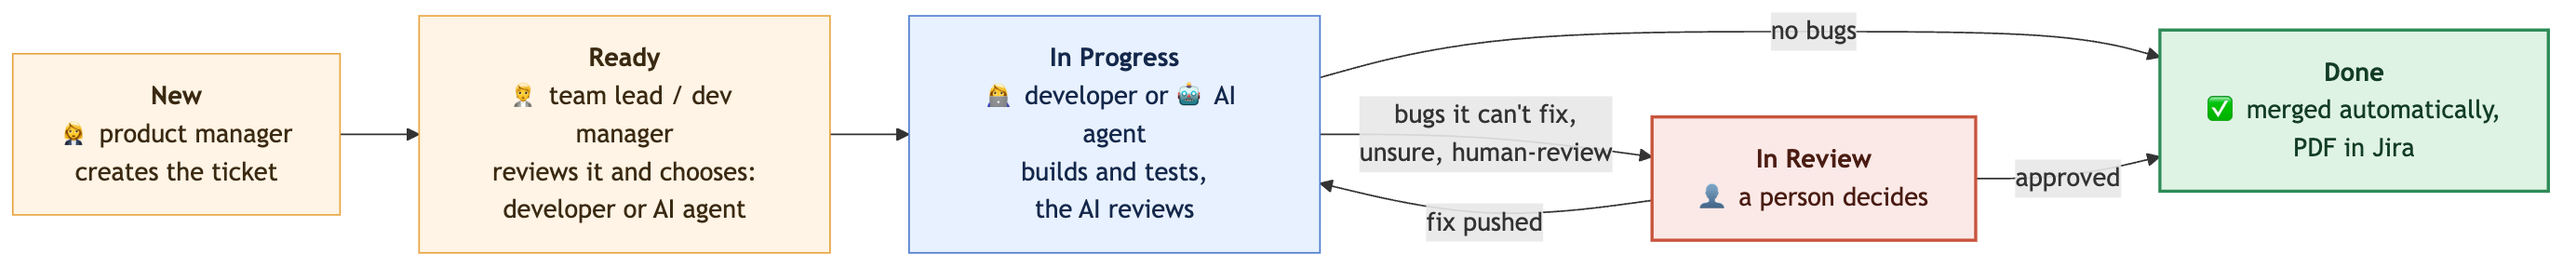
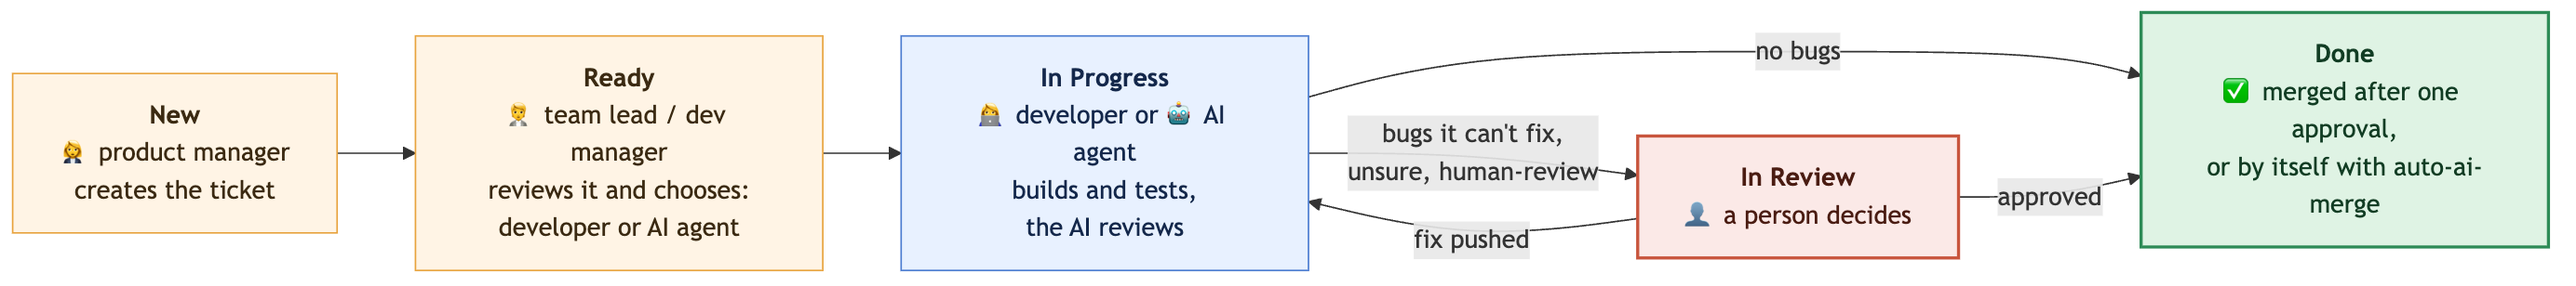
Merge: a person approves the PR by default; Jira label auto-ai-merge lets the pipeline merge by itself
main now requires one approval (the bot's own auto-ai-merge merges bypass it). Docs and diagrams updated.

diff --git a/README.md b/README.md
@@ -2,7 +2,7 @@
 
 A product manager creates a Jira ticket, and the team lead or dev manager reviews it and adds the details. Once the ticket is Ready, they choose who builds it: a developer [ or ] the AI agent ( ⚡ Run Agent 1 in Jira ). Playwright and Applitools Eyes test the change on the devices listed in the ticket ( or the defaults in `playwright.config.ts` ), and the AI reviews every visual difference against the ticket and the design system using the Applitools Eyes MCP Server.
 
-If no bugs are found, the change is merged automatically and the ticket moves to Done, with a PDF report attached. If the AI caused a bug, it fixes it and tests again. If there are bugs it cannot fix, or the ticket has the `human-review` label, the ticket moves to In Review and a person decides.
+If no bugs are found, a person approves the pull request with one click and it is merged, or, with the label `auto-ai-merge`, it is merged automatically. The ticket then moves to Done, with a PDF report attached. If the AI caused a bug, it fixes it and tests again. If there are bugs it cannot fix, or the ticket has the `human-review` label, the ticket moves to In Review and a person decides.
 
 The goal: QA and developers no longer compare screenshots by hand. People only step in when a decision is really needed.
 
@@ -15,7 +15,7 @@ The goal: QA and developers no longer compare screenshots by hand. People only s
 1. Create the ticket ( Jira status: New ): the product manager creates the ticket in Jira with what should change and what must not change.
 
    <img src="docs/images/jira-create-ticket.gif" width="560" alt="Creating a ticket from the New column, adding the description and the text label">
-2. Review the ticket ( Jira status: Ready ): the team lead or dev manager reviews the New ticket, adds more details and moves it to Ready. Ready means the ticket is ready to be picked up. In Ready, they choose who handles it: assign a developer [ or ] click ⚡ Run Agent 1 for the AI agent. Optional labels: `feature`, `bug`, `hotfix`, `text`, `human-review` ( no label = feature ). To add a label: open the ticket → Details panel on the right → Labels → type the label → Enter.
+2. Review the ticket ( Jira status: Ready ): the team lead or dev manager reviews the New ticket, adds more details and moves it to Ready. Ready means the ticket is ready to be picked up. In Ready, they choose who handles it: assign a developer [ or ] click ⚡ Run Agent 1 for the AI agent. Optional labels: `feature`, `bug`, `hotfix`, `text`, `human-review`, `auto-ai-merge` ( no label = feature ). To add a label: open the ticket → Details panel on the right → Labels → type the label → Enter.
 
    Moving the ticket from New to Ready: open the ticket → click the status ( New ) → Ready.
 
@@ -53,7 +53,9 @@ The goal: QA and developers no longer compare screenshots by hand. People only s
 7. Auto fix ( Jira status: In Progress ): if the AI's change causes an issue, the AI fixes it and tests again ( up to 2 rounds ). For every bug it fixed, it creates a Jira sub-task in Done status with the details: what the issue was, why it was a bug, what it fixed and how. If it cannot fix a bug, it creates an open sub-task for a person.
 8. Report ( Jira status: In Progress ): after each execution, a PDF summary report is attached to the Jira ticket and linked on the pull request. It shows the results at a glance ( test cases run, passed and failed, visual checkpoints with and without differences, differences accepted or rejected by the AI, bugs found, fixed and left ), the actions the AI took, and the before / after / difference images for every change.
 9. Decision ( Jira status: Done or In Review ):
-   - No bugs found ( Jira status: Done ): the change is merged automatically and the baselines in Eyes are saved.
+   - No bugs found: the baselines in Eyes are saved, and:
+     - by default, a person approves the pull request ( one click ). GitHub then merges it, and the ticket moves to Done;
+     - with the label `auto-ai-merge`, the pipeline merges it by itself, and the ticket moves to Done.
    - Bugs it cannot fix, unclear changes, or the `human-review` label ( Jira status: In Review ): the ticket gets the label `needs-human` and is assigned to the person who created it. A person reads the PDF and fixes or approves. When the developer pushes a fix, the AI reviews it again.
 
    Note: In Review means the work is waiting for a person's decision. It is not used for reviewing the ticket itself ( that happens between New and Ready ).
@@ -113,7 +115,7 @@ The AI builds and reviews the change based on what the ticket says, so a clear t
 | Test on below devices | Optional | e.g. "Galaxy S25 Ultra", "Chrome desktop 1200×800" | The devices Applitools Eyes tests this ticket on. Without it, the defaults in `playwright.config.ts` are used |
 | Design reference | Optional | A design system rule or a Figma link | Checked together with `guidelines/design-system.md` |
 | Steps to reproduce, Actual, Expected | Required for a bug or hotfix | How to see the bug, what you see now, what you should see | The AI first reproduces the bug, then fixes it and adds a regression test |
-| Labels | Optional | `feature`, `bug`, `hotfix`, `text` ( a text-only change: the AI expects only text to change and checks the new text fits ), `human-review` ( extra types: `refactor` = no visual change expected, `a11y` = accessibility ) | Tells the AI the type of work ( no label = feature ). `human-review` means a person approves before the merge |
+| Labels | Optional | `feature`, `bug`, `hotfix`, `text` ( a text-only change: the AI expects only text to change and checks the new text fits ), `human-review`, `auto-ai-merge` ( merge without waiting for a person's approval ) ( extra types: `refactor` = no visual change expected, `a11y` = accessibility ) | Tells the AI the type of work ( no label = feature ). `human-review` means a person approves before the merge |
 | Work type | Optional | Task ( default, treated as a feature ) or Bug | A Bug work type is treated like the `bug` label |
 
 *Template ( copy into the Jira description )*
@@ -267,7 +269,7 @@ flowchart TD
     E --> F
     F --> G
     G --> H
-    H -->|"no bugs: merged automatically"| K
+    H -->|"no bugs: approved, or auto-ai-merge"| K
     H -->|"a bug the AI caused"| I
     I --> F
     H -->|"bugs it can't fix · unsure · human-review"| J

diff --git a/docs/INSTALLATION.md b/docs/INSTALLATION.md
@@ -9,7 +9,7 @@ This guide explains how to set up the sample project's flow in your own project.
 - Tests: Playwright and Applitools Eyes run the test cases on the defined devices ( set in `playwright.config.ts` ).
 - AI review: the AI checks every visual difference against the ticket and the design system, using the Eyes MCP Server ( deterministic agentic workflow ).
 - Report: a PDF report is attached to the Jira ticket.
-- Merge: if no bugs are found, it is merged automatically. If bugs are found, a person decides.
+- Merge: if no bugs are found, a person approves the pull request ( or, with the label `auto-ai-merge`, it is merged automatically ). If bugs are found, a person decides.
 
 Time needed: about one hour. Requirement: admin rights on the GitHub repository and the Jira project.
 
@@ -258,7 +258,7 @@ Go to your repository → **Settings → Secrets and variables → Actions**.
 | `APP_START_COMMAND` | How to start your app (Step 2) |
 | `APP_URL` | Where your app runs in CI (Step 2) |
 | `AGENT_ALLOWED_PATHS` | Folders Agent 1 may change (Step 2) |
-| `MERGE_POLICY` | `auto` (merge when the AI review passes) or `code-approval` (also needs one person's approval) |
+| `MERGE_POLICY` | `code-approval` ( default: one person approves the PR ) or `auto` ( merge when the AI review passes ). The Jira label `auto-ai-merge` always merges automatically |
 
 ![Repository variables](installation/images/p10-repo-variables.png)
 
@@ -335,7 +335,7 @@ A ticket can be implemented in two ways: (1) the AI agent builds it, [ or ] (2) 
 ### (1) The AI agent builds it
 
 **1. The PM or team lead creates the ticket** with two lists: *what should change* and *what must not change*.
-Optional labels: `bug`, `hotfix`, `human-review`.
+Optional labels: `bug`, `hotfix`, `text`, `human-review`, `auto-ai-merge`.
 
 **2. In Ready, the team lead or dev manager ( or anyone ) clicks the ⚡ ( Automation ) button → Agent 1** on the ticket. It moves to **In Progress**.
 
@@ -388,7 +388,8 @@ images for every change:
 | What | How |
 |---|---|
 | A person must approve this ticket | Add the label `human-review` to the Jira ticket |
-| A person must approve every change's code | `scripts/set-merge-policy.sh code-approval` (back with `auto`) |
+| Merge a ticket without waiting for approval | Add the label `auto-ai-merge` to the Jira ticket |
+| Merge everything without approval ( repository-wide ) | `scripts/set-merge-policy.sh auto` ( back with `code-approval`, the default ) |
 | How strict the AI is | Edit `guidelines/review-rules.md` |
 | Your design rules | Edit `guidelines/design-system.md` |
 | Browsers and devices | `browsersInfo` in `playwright.config.ts` |

diff --git a/docs/FLOW.md b/docs/FLOW.md
@@ -54,7 +54,7 @@ flowchart TD
     E --> F
     F --> G
     G --> H
-    H -->|"no bugs: merged automatically"| K
+    H -->|"no bugs: approved, or auto-ai-merge"| K
     H -->|"a bug the AI caused"| I
     I --> F
     H -->|"bugs it can't fix · unsure · human-review"| J
@@ -84,7 +84,7 @@ How to read it: each grey or coloured band is a Jira status ( New → Ready → 
 
 ## Step 1: The ticket is created
 
-What happens: the PM or team lead creates a ticket in Jira with two lists, what should change and what must not change. Optional labels: `bug`, `hotfix` ( changes how strict the AI is ) and `human-review` ( a person must approve before the merge ).
+What happens: the PM or team lead creates a ticket in Jira with two lists, what should change and what must not change. Optional labels: `bug`, `hotfix`, `text`, `auto-ai-merge` ( merge without a person's approval ), `human-review` ( changes how strict the AI is ) and `human-review` ( a person must approve before the merge ).
 
 Who: PM or team lead.
 
@@ -188,7 +188,7 @@ Files:
 ## Step 8: Decide and merge
 
 What happens:
-- No bugs found: the pipeline saves the baselines in Eyes, merges the PR and moves the ticket to Done. No manual effort is needed.
+- No bugs found: the pipeline saves the baselines in Eyes. By default, a person then approves the pull request ( one click ) and GitHub merges it. With the label `auto-ai-merge`, the pipeline merges it by itself. Either way the ticket moves to Done.
 - Bugs the AI can't fix, unclear changes, or the `human-review` label: the PR and the ticket get the label `needs-human`, the ticket moves to In Review and is assigned to the person who created it. A person reads the PDF, then fixes or approves, saves the baselines and merges.
 - Optional: with `MERGE_POLICY=code-approval`, a passing PR also waits for one person's code approval, then GitHub merges it automatically.
 
@@ -226,7 +226,7 @@ Status names can be changed with the repository variables `JIRA_STATUS_IN_PROGRE
 | Accept or reject a difference in Eyes | yes | | yes |
 | Fix a bug it caused | yes ( up to 2 rounds ) | | |
 | Save baselines in Eyes | never | yes, only when there are no bugs and nothing unresolved | yes |
-| Merge the PR | never | yes, only when the checks pass | yes |
+| Merge the PR | never | only with the label `auto-ai-merge` ( after the checks pass ) | yes: approves the PR ( default ), then GitHub merges |
 | Change the rules ( `guidelines/` ) | never | | yes, with CODEOWNERS approval |
 
 ---
